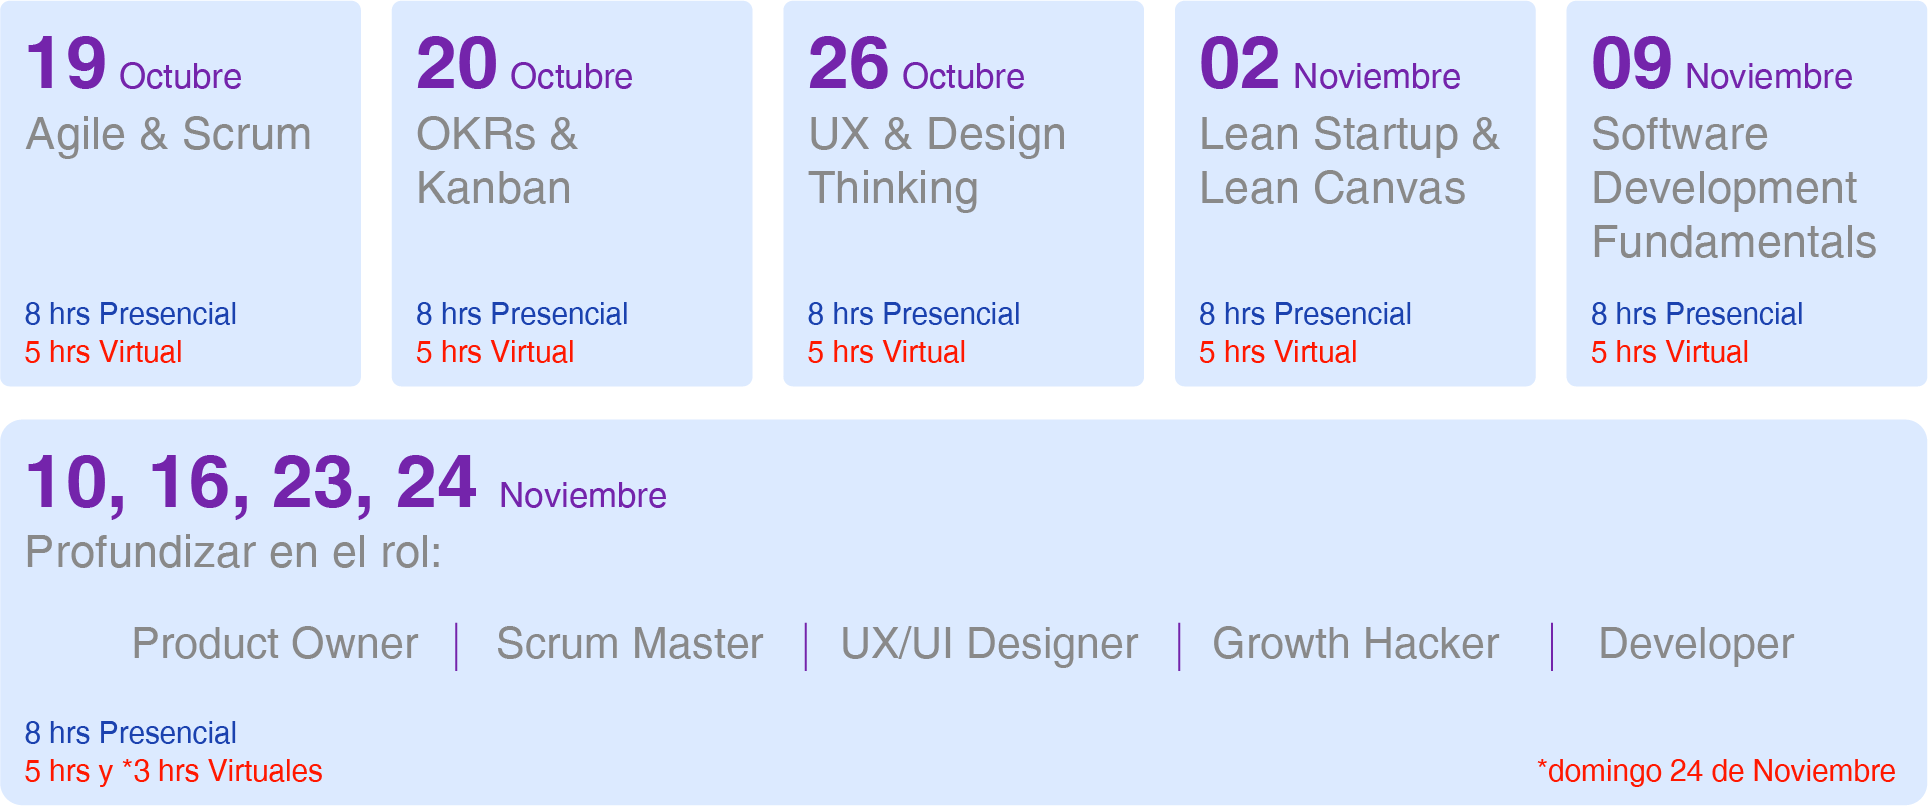
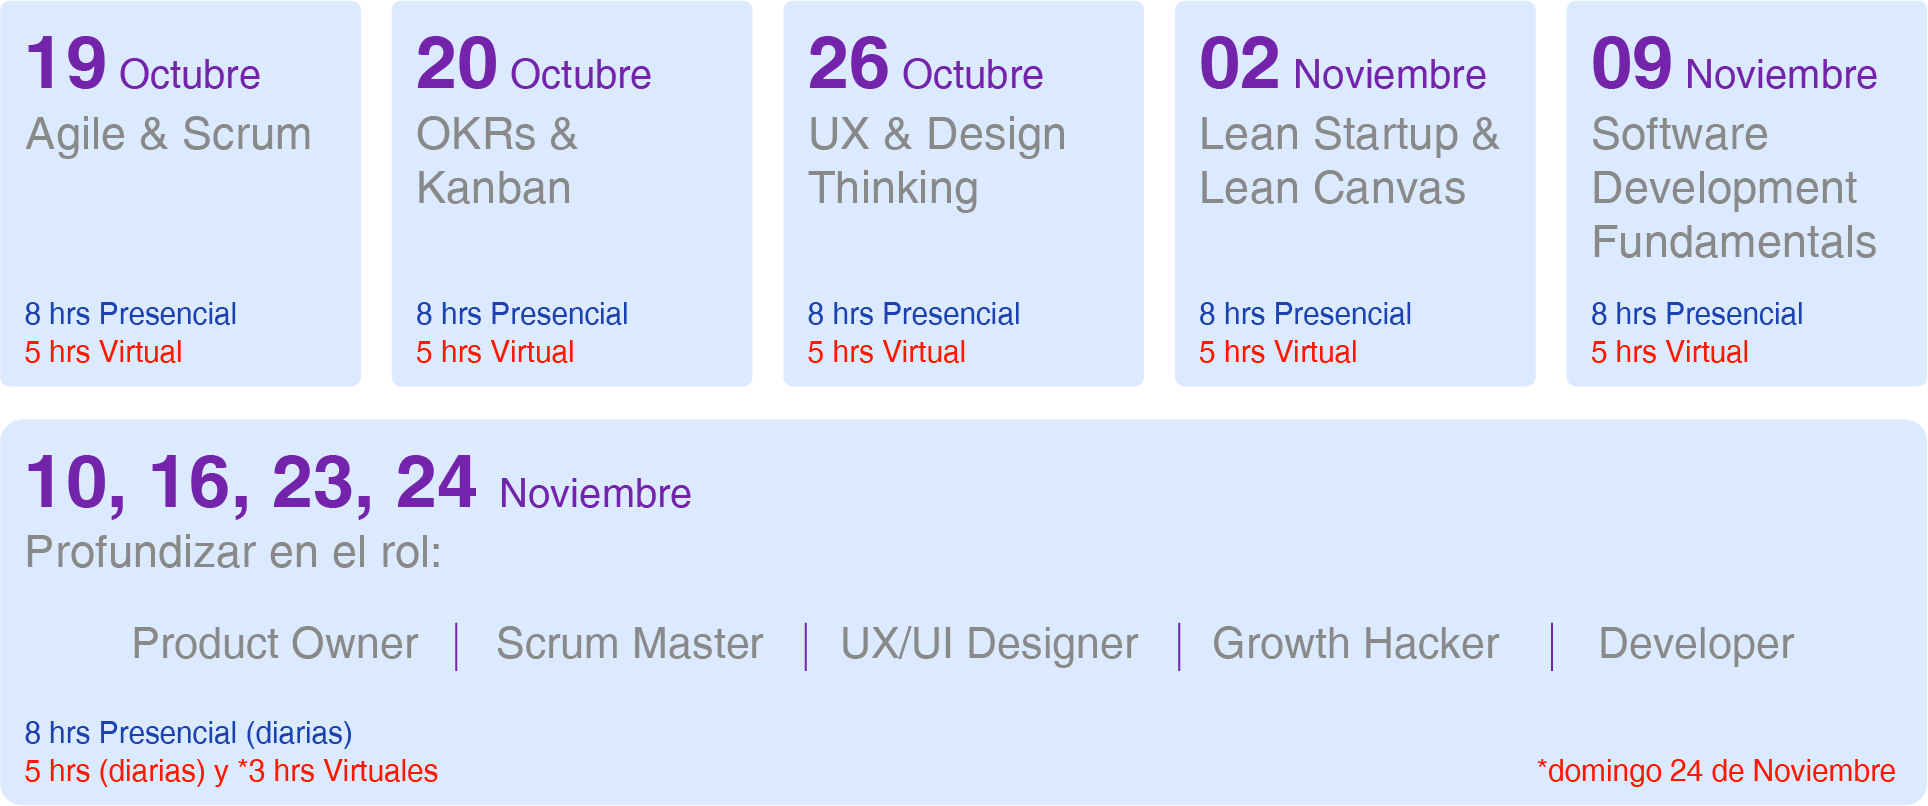
adding second image

diff --git a/bootcamp/generic.html b/bootcamp/generic.html
@@ -80,15 +80,10 @@
 				<h2 class="mb-0 text-center" style="margin-top: 90px">Bootcamp 9 primeras semanas (115 horas)</h2>
 				<div class="d-flex justify-content-center mb-5 " style="margin-top: 60px">
 					<img src="./images/Recurso 14@2x.png" style="width: 90%" alt="">
-					<!-- <ul class=" text-center mt-5 mb-5 list-unstyled" style="width: 20%">
-						<li >Product Owner</li>
-						<li >Scrum Master</li>
-						<li >UX/UI Designer</li>
-						<li >Growth Hacker</li>
-						<li >Developer</li>
-						<li >Developer</li>
-						<li >Developer</li>
-					</ul> -->
+				</div>
+				<h2 class="mb-0 text-center" style="margin-top: 90px">Bootcamp 10ma semana intensiva (45 horas)</h2>
+				<div class="d-flex justify-content-center mb-5 " style="margin-top: 60px">
+					<img src="./images/Recurso 15@2x.png" style="width: 80%" alt="">
 				</div>
 				<footer class="major">
 					<ul class="actions special">
